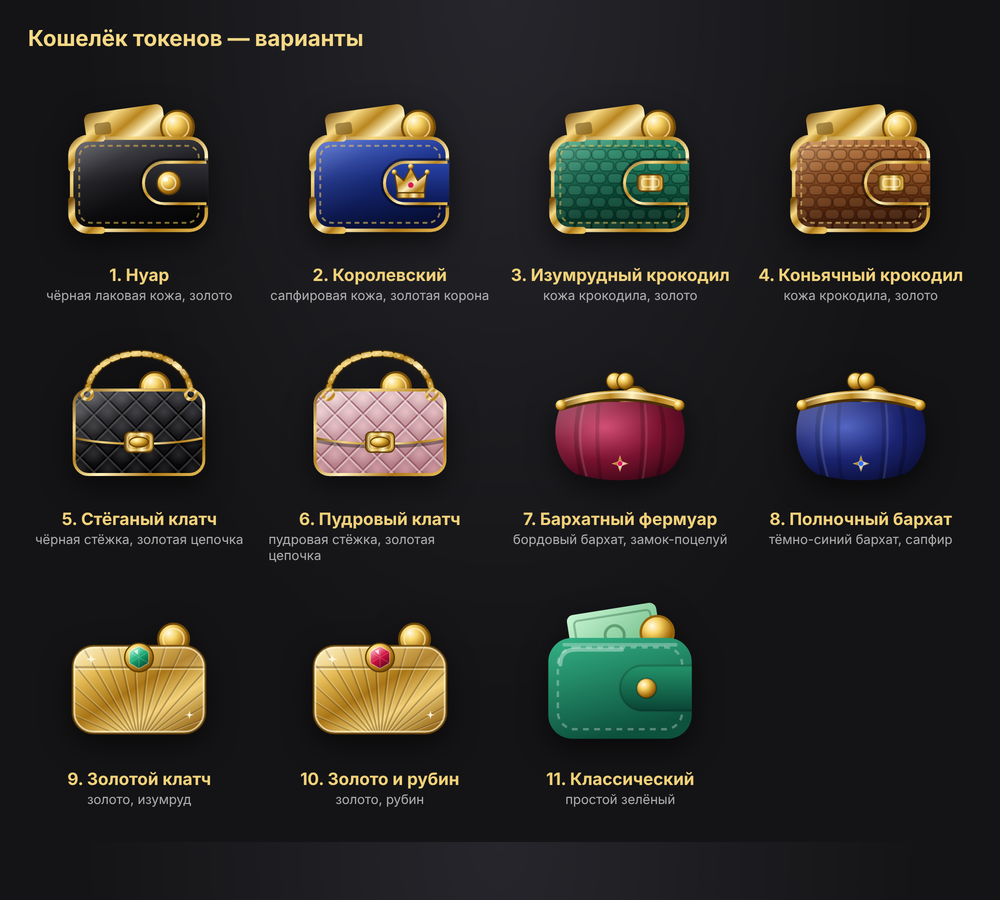
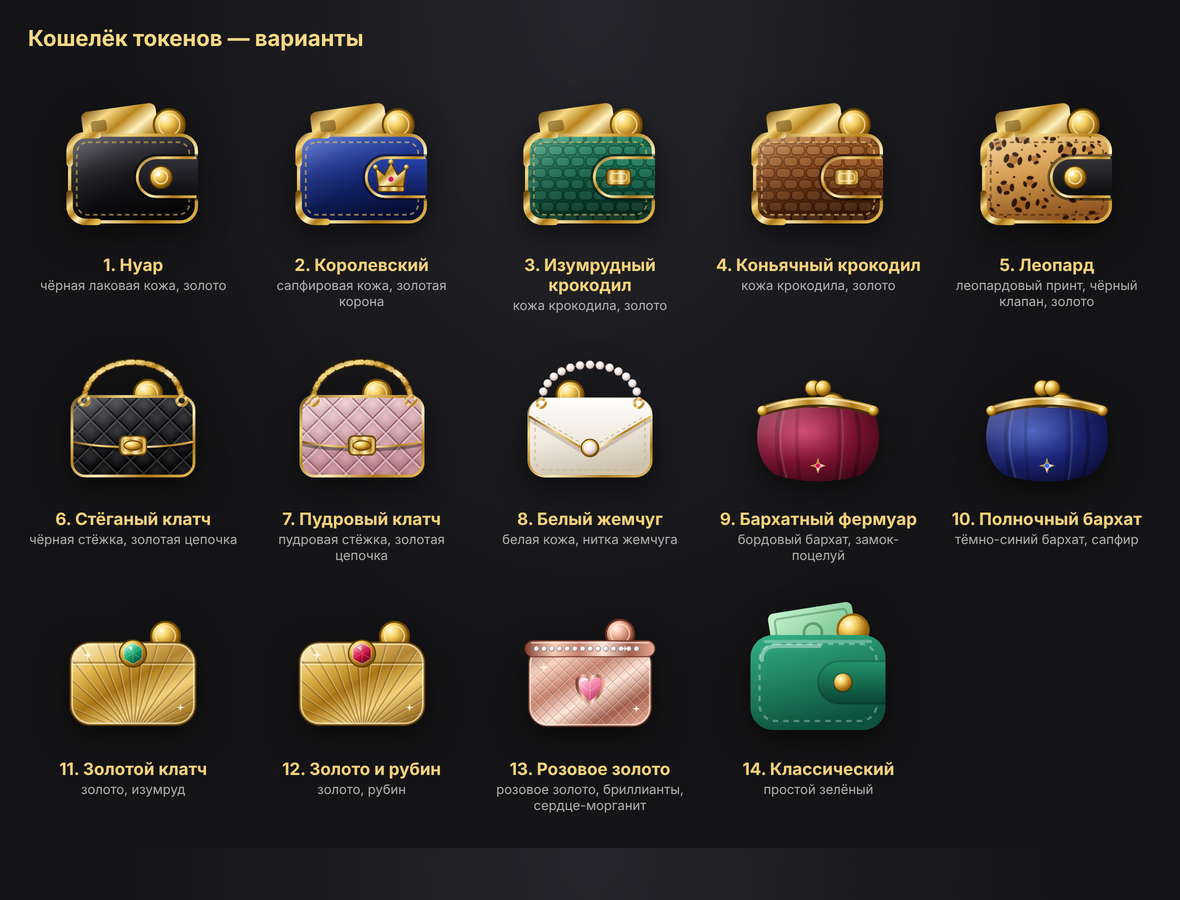
Add white pearl, rose gold and leopard wallet designs
- Leopard: bifold in leopard print (irregular rosettes) with a black
  patent flap and gold hardware.
- White pearl: ivory leather envelope clutch with a pearl strand handle
  and a pearl clasp.
- Rose gold: guilloche rose-gold clutch with a diamond pave frame and a
  morganite heart.
- All 14 designs are selectable in the settings; gallery and README
  updated.

diff --git a/src/wallets.js b/src/wallets.js
@@ -46,8 +46,8 @@ const glint = (id) => `
     </g>`;
 
 /** A gold coin with a rim */
-const coin = (id, cx, cy, r = 6) => `
-    <circle cx="${cx}" cy="${cy}" r="${r}" fill="url(#${id}-ball)" stroke="#6e4808" stroke-width="0.8"/>
+const coin = (id, cx, cy, r = 6, fill = 'ball', rim = '#6e4808') => `
+    <circle cx="${cx}" cy="${cy}" r="${r}" fill="url(#${id}-${fill})" stroke="${rim}" stroke-width="0.8"/>
     <circle cx="${cx}" cy="${cy}" r="${(r * 0.68).toFixed(2)}" fill="none" stroke="#fff3c4" stroke-opacity="0.65" stroke-width="0.6"/>`;
 
 /** Four-point sparkle */
@@ -66,7 +66,7 @@ const svg = (body) => `<svg class="tw-wallet-svg" viewBox="0 0 64 64" aria-hidde
  */
 function bifold(id, o) {
     const texture = o.texture ? `<rect x="6" y="19" width="52" height="36" rx="7" fill="url(#${id}-tex)"/>` : '';
-    const textureFlap = o.texture ? `<path d="M58 28 H41.5 a8.5 8.5 0 0 0 0 17 H58 Z" fill="url(#${id}-tex)"/>` : '';
+    const textureFlap = o.texture && o.flapTexture !== false ? `<path d="M58 28 H41.5 a8.5 8.5 0 0 0 0 17 H58 Z" fill="url(#${id}-tex)"/>` : '';
     return svg(`
     <defs>
         ${sharedDefs(id)}
@@ -130,6 +130,33 @@ const crocTexture = (dark, light) => (id) => {
     <pattern id="${id}-tex" width="12" height="9" patternUnits="userSpaceOnUse" patternTransform="translate(6 19)">
         ${tile(0.4, 0.4, 5.4, 3.7)}${tile(6.4, 0.4, 5.2, 3.7)}
         ${tile(-2.6, 4.9, 5.6, 3.7)}${tile(3.4, 4.9, 5.2, 3.7)}${tile(9.4, 4.9, 5.6, 3.7)}
+    </pattern>`;
+};
+
+/**
+ * Leopard rosettes: irregular broken dark rings around a warm centre, plus small spots.
+ * Each blob is [angle, length, thickness] relative to the rosette radius.
+ */
+const leopardTexture = (id) => {
+    const rosette = (cx, cy, r, rot, blobs) => {
+        let out = `<ellipse cx="${cx}" cy="${cy}" rx="${(r * 0.82).toFixed(2)}" ry="${(r * 0.62).toFixed(2)}" fill="#a3561a" fill-opacity="0.62" transform="rotate(${rot} ${cx} ${cy})"/>`;
+        for (const [a, len, thick] of blobs) {
+            const angle = ((a + rot) * Math.PI) / 180;
+            const x = (cx + Math.cos(angle) * r).toFixed(2);
+            const y = (cy + Math.sin(angle) * r * 0.82).toFixed(2);
+            out += `<ellipse cx="${x}" cy="${y}" rx="${(r * len).toFixed(2)}" ry="${(r * thick).toFixed(2)}" fill="#2a1406" transform="rotate(${(a + rot + 90).toFixed(1)} ${x} ${y})"/>`;
+        }
+        return out;
+    };
+    const spot = (cx, cy, rx, ry, rot) => `<ellipse cx="${cx}" cy="${cy}" rx="${rx}" ry="${ry}" fill="#2a1406" transform="rotate(${rot} ${cx} ${cy})"/>`;
+    return `
+    <pattern id="${id}-tex" width="22" height="18" patternUnits="userSpaceOnUse" patternTransform="translate(6 19) rotate(-10)">
+        ${rosette(5.5, 5, 2.6, 10, [[0, 0.62, 0.34], [78, 0.48, 0.3], [160, 0.66, 0.36], [252, 0.5, 0.32]])}
+        ${rosette(15.6, 4.6, 2.2, 50, [[0, 0.72, 0.36], [118, 0.58, 0.32], [228, 0.64, 0.35]])}
+        ${rosette(10.4, 12.6, 2.8, 120, [[0, 0.56, 0.33], [88, 0.66, 0.36], [178, 0.46, 0.3], [262, 0.6, 0.34]])}
+        ${rosette(19, 13.6, 2, 200, [[0, 0.7, 0.36], [125, 0.6, 0.33], [240, 0.55, 0.32]])}
+        ${spot(1.5, 11.4, 0.7, 0.45, 30)}${spot(9.6, 1.4, 0.55, 0.38, -20)}${spot(20.3, 8.6, 0.6, 0.4, 60)}
+        ${spot(3.4, 16.4, 0.5, 0.35, 10)}${spot(14.6, 9.2, 0.42, 0.3, -40)}
     </pattern>`;
 };
 
@@ -266,6 +293,127 @@ function minaudiere(id, o) {
     ${glint(id)}`);
 }
 
+/* -------------------------------------------- white leather with pearls */
+
+const pearlDefs = (id) => `
+    <radialGradient id="${id}-pearl" cx="0.36" cy="0.3" r="0.78">
+        <stop offset="0" stop-color="#ffffff"/>
+        <stop offset="0.3" stop-color="#fbf6f2"/>
+        <stop offset="0.62" stop-color="#ecdcd8"/>
+        <stop offset="0.86" stop-color="#c8b8b4"/>
+        <stop offset="1" stop-color="#a39490"/>
+    </radialGradient>`;
+
+function pearlClutch(id) {
+    // Pearls along a cubic Bézier: the strand handle
+    const p0 = [12.5, 24.5];
+    const p1 = [14, 5];
+    const p2 = [50, 5];
+    const p3 = [51.5, 24.5];
+    const pearls = [];
+    for (let i = 0; i <= 14; i++) {
+        const t = i / 14;
+        const k = 1 - t;
+        const x = k ** 3 * p0[0] + 3 * k * k * t * p1[0] + 3 * k * t * t * p2[0] + t ** 3 * p3[0];
+        const y = k ** 3 * p0[1] + 3 * k * k * t * p1[1] + 3 * k * t * t * p2[1] + t ** 3 * p3[1];
+        pearls.push(`<circle cx="${x.toFixed(2)}" cy="${y.toFixed(2)}" r="1.65" fill="url(#${id}-pearl)" stroke="#9a8a86" stroke-opacity="0.45" stroke-width="0.25"/>`);
+    }
+    const flap = 'M7.6 30 V29.5 a6.4 6.4 0 0 1 6.4 -6.4 H50 a6.4 6.4 0 0 1 6.4 6.4 V30.5 L36.2 42.6 Q32 45 27.8 42.6 L7.6 30.5 Z';
+    const flapEdge = 'M7.6 30.5 L27.8 42.6 Q32 45 36.2 42.6 L56.4 30.5';
+    return svg(`
+    <defs>
+        ${sharedDefs(id)}
+        ${pearlDefs(id)}
+        <linearGradient id="${id}-body" x1="0" y1="0" x2="0.3" y2="1">
+            <stop offset="0" stop-color="#fffefb"/>
+            <stop offset="0.55" stop-color="#f0e9de"/>
+            <stop offset="1" stop-color="#cfc3b0"/>
+        </linearGradient>
+        <linearGradient id="${id}-flap" x1="0" y1="0" x2="0" y2="1">
+            <stop offset="0" stop-color="#ffffff"/>
+            <stop offset="1" stop-color="#ece4d7"/>
+        </linearGradient>
+        <clipPath id="${id}-clip"><rect x="7" y="23" width="50" height="32" rx="7"/></clipPath>
+    </defs>
+    <g class="tw-peek">${coin(id, 24, 21.8, 5.4)}</g>
+    <path d="M12.5 24.5 C 14 5, 50 5, 51.5 24.5" fill="none" stroke="#b9a99f" stroke-opacity="0.5" stroke-width="0.4"/>
+    ${pearls.join('')}
+    <rect x="7" y="23" width="50" height="32" rx="7" fill="url(#${id}-body)"/>
+    <rect x="7" y="23" width="50" height="32" rx="7" fill="url(#${id}-sheen)"/>
+    <rect x="7.5" y="23.5" width="49" height="31" rx="6.5" fill="none" stroke="url(#${id}-gold)" stroke-width="0.9"/>
+    <rect x="10" y="26" width="44" height="26" rx="4.5" fill="none" stroke="#c9b48a" stroke-opacity="0.7" stroke-width="0.55" stroke-dasharray="1.6 1.3"/>
+    <path d="${flapEdge}" fill="none" stroke="#5a4a36" stroke-opacity="0.22" stroke-width="2" transform="translate(0 1)"/>
+    <path d="${flap}" fill="url(#${id}-flap)"/>
+    <path d="${flapEdge}" fill="none" stroke="url(#${id}-goldh)" stroke-width="0.8"/>
+    <path d="M10.5 30.8 L28.6 41.3 Q32 43.2 35.4 41.3 L53.5 30.8" fill="none" stroke="#c9b48a" stroke-opacity="0.75" stroke-width="0.5" stroke-dasharray="1.4 1.2"/>
+    <circle cx="12.5" cy="25.3" r="1.7" fill="none" stroke="url(#${id}-gold)" stroke-width="1.1"/>
+    <circle cx="51.5" cy="25.3" r="1.7" fill="none" stroke="url(#${id}-gold)" stroke-width="1.1"/>
+    <circle cx="32" cy="43.2" r="3.5" fill="url(#${id}-ball)" stroke="#5e3c06" stroke-width="0.4"/>
+    <circle cx="32" cy="43.2" r="2.7" fill="url(#${id}-pearl)"/>
+    <circle cx="31" cy="42.2" r="0.7" fill="#fff" opacity="0.9"/>
+    ${glint(id)}`);
+}
+
+/* ------------------------------------------------------ rose gold clutch */
+
+function roseGold(id) {
+    const rose = `
+        <stop offset="0" stop-color="#7d3f30"/>
+        <stop offset="0.22" stop-color="#f8cdb8"/>
+        <stop offset="0.42" stop-color="#c4806a"/>
+        <stop offset="0.6" stop-color="#ffe6da"/>
+        <stop offset="0.8" stop-color="#a35f4c"/>
+        <stop offset="1" stop-color="#e9ad95"/>`;
+    const diamonds = [];
+    for (let x = 10.6; x <= 53.5; x += 3.08) {
+        diamonds.push(`<circle cx="${x.toFixed(2)}" cy="23.5" r="1.08" fill="url(#${id}-diamond)" stroke="#7d3f30" stroke-opacity="0.5" stroke-width="0.25"/>`);
+    }
+    const heart = 'M32 45.2 C 25.2 40.4, 25.9 34.3, 29.3 34.3 C 30.8 34.3, 31.6 35.2, 32 36.1 C 32.4 35.2, 33.2 34.3, 34.7 34.3 C 38.1 34.3, 38.8 40.4, 32 45.2 Z';
+    return svg(`
+    <defs>
+        ${sharedDefs(id)}
+        <linearGradient id="${id}-rose" x1="0" y1="0" x2="0.9" y2="1">${rose}</linearGradient>
+        <linearGradient id="${id}-roseh" x1="0" y1="0" x2="1" y2="0">${rose}</linearGradient>
+        <radialGradient id="${id}-rball" cx="0.35" cy="0.3" r="0.8">
+            <stop offset="0" stop-color="#fff4ee"/>
+            <stop offset="0.32" stop-color="#f3b9a2"/>
+            <stop offset="0.74" stop-color="#a65a46"/>
+            <stop offset="1" stop-color="#5e2a1d"/>
+        </radialGradient>
+        <radialGradient id="${id}-diamond" cx="0.35" cy="0.3" r="0.8">
+            <stop offset="0" stop-color="#ffffff"/>
+            <stop offset="0.5" stop-color="#e6eef7"/>
+            <stop offset="1" stop-color="#8d9bb0"/>
+        </radialGradient>
+        <linearGradient id="${id}-morganite" x1="0.2" y1="0" x2="0.8" y2="1">
+            <stop offset="0" stop-color="#ffe0ea"/>
+            <stop offset="0.5" stop-color="#f27aa3"/>
+            <stop offset="1" stop-color="#9c1f4f"/>
+        </linearGradient>
+        <pattern id="${id}-guilloche" width="3.4" height="3.4" patternUnits="userSpaceOnUse" patternTransform="rotate(45 32 38)">
+            <path d="M0 0 H3.4 M0 0 V3.4" stroke="#6b3022" stroke-opacity="0.32" stroke-width="0.45"/>
+            <path d="M0 0.55 H3.4 M0.55 0 V3.4" stroke="#fff" stroke-opacity="0.3" stroke-width="0.3"/>
+        </pattern>
+        <clipPath id="${id}-clip"><rect x="7.5" y="20.5" width="49" height="34" rx="7.5"/></clipPath>
+    </defs>
+    <g class="tw-peek">${coin(id, 44, 17.5, 5.6, 'rball', '#6b3022')}</g>
+    <rect x="7.5" y="22" width="49" height="32.5" rx="7.5" fill="url(#${id}-rose)"/>
+    <rect x="7.5" y="22" width="49" height="32.5" rx="7.5" fill="url(#${id}-guilloche)"/>
+    <rect x="7.5" y="22" width="49" height="32.5" rx="7.5" fill="url(#${id}-sheen)"/>
+    <rect x="8.1" y="22.6" width="47.8" height="31.3" rx="6.9" fill="none" stroke="#fff1ea" stroke-opacity="0.6" stroke-width="0.7"/>
+    <rect x="7.5" y="22" width="49" height="32.5" rx="7.5" fill="none" stroke="#6b3022" stroke-opacity="0.75" stroke-width="0.6"/>
+    <rect x="6" y="20.3" width="52" height="6.4" rx="3.2" fill="url(#${id}-roseh)" stroke="#6b3022" stroke-opacity="0.8" stroke-width="0.5"/>
+    <path d="M8.6 21.1 H55.4" stroke="#fff4ee" stroke-opacity="0.7" stroke-width="0.5" stroke-linecap="round"/>
+    ${diamonds.join('')}
+    <path d="${heart}" fill="url(#${id}-morganite)" stroke="url(#${id}-roseh)" stroke-width="1.3" stroke-linejoin="round"/>
+    <path d="M32 36.6 L32 44 M28 37.6 L32 40.6 L36 37.6" fill="none" stroke="#fff" stroke-opacity="0.28" stroke-width="0.35"/>
+    <path d="M28.4 36.6 Q 29.4 35.4 30.8 35.8" fill="none" stroke="#fff" stroke-opacity="0.85" stroke-width="0.7" stroke-linecap="round"/>
+    ${sparkle(13.5, 31, 0.5, 0.4)}
+    ${sparkle(50.5, 47.5, 0.45, 1.6)}
+    ${sparkle(46, 23.4, 0.38, 2.2)}
+    ${glint(id)}`);
+}
+
 /* ----------------------------------------------------- classic (simple) */
 
 function classic(id) {
@@ -364,6 +512,21 @@ export const WALLETS = [
         }),
     },
     {
+        id: 'leopard',
+        name: { ru: 'Леопард', en: 'Leopard' },
+        hint: { ru: 'леопардовый принт, чёрный клапан, золото', en: 'leopard print, black flap, gold' },
+        glow: 'rgba(255, 190, 100, 0.55)',
+        render: id => bifold(id, {
+            body: ['#f3c983', '#d39a4c', '#8f5622'],
+            flap: ['#36363c', '#0a0a0b'],
+            stitch: 'rgba(60, 30, 8, 0.55)',
+            texture: true,
+            flapTexture: false,
+            textureDefs: leopardTexture,
+            emblem: roundClasp,
+        }),
+    },
+    {
         id: 'quilted-noir',
         name: { ru: 'Стёганый клатч', en: 'Quilted clutch' },
         hint: { ru: 'чёрная стёжка, золотая цепочка', en: 'black quilting, gold chain' },
@@ -376,6 +539,13 @@ export const WALLETS = [
         hint: { ru: 'пудровая стёжка, золотая цепочка', en: 'blush quilting, gold chain' },
         glow: 'rgba(255, 170, 190, 0.6)',
         render: id => quilted(id, { body: ['#f6d3d6', '#c88b95'], seam: '#9b5764', seamLight: 0.45 }),
+    },
+    {
+        id: 'pearl',
+        name: { ru: 'Белый жемчуг', en: 'White pearl' },
+        hint: { ru: 'белая кожа, нитка жемчуга', en: 'white leather, pearl strand' },
+        glow: 'rgba(255, 238, 215, 0.65)',
+        render: id => pearlClutch(id),
     },
     {
         id: 'velvet-bordeaux',
@@ -404,6 +574,13 @@ export const WALLETS = [
         hint: { ru: 'золото, рубин', en: 'gold, ruby' },
         glow: 'rgba(255, 190, 110, 0.65)',
         render: id => minaudiere(id, { gem: ['#ffc2d0', '#d0103f', '#52031a'] }),
+    },
+    {
+        id: 'rose-gold',
+        name: { ru: 'Розовое золото', en: 'Rose gold' },
+        hint: { ru: 'розовое золото, бриллианты, сердце-морганит', en: 'rose gold, diamonds, morganite heart' },
+        glow: 'rgba(255, 170, 160, 0.6)',
+        render: id => roseGold(id),
     },
     {
         id: 'classic',

diff --git a/README.md b/README.md
@@ -68,11 +68,11 @@ git clone -b claude/silly-tavern-token-costs-tdqcx8 https://github.com/Diana-Fox
 - **Монетка за вход**:
   - «Сразу при отправке» — как в задумке: монетка вылетает в момент отправки. Но OpenRouter присылает точный счёт только в самом конце ответа, поэтому сумма на этой монетке — оценка (`≈`), посчитанная токенайзером SillyTavern по ценам модели. Когда придёт точный счёт, на золотой монетке будет пометка «вход уточнён: …», а в панели и у сообщения сразу будут точные цифры.
   - «Вместе с ответом» — обе монетки вылетают после ответа, сразу с точными суммами.
-- **Внешний вид**: 11 стилей кошелька и три размера. Стиль выбирается плитками, и при выборе сразу вылетают пробные монетки. Можно включить блик и искорки на кошельке, а также отдельно включать или выключать сам кошелёк, сумму за чат, стоимость у сообщений и название модели на монетке. Кнопка «Проверить анимацию» запускает пробные монетки.
+- **Внешний вид**: 14 стилей кошелька и три размера. Стиль выбирается плитками, и при выборе сразу вылетают пробные монетки. Можно включить блик и искорки на кошельке, а также отдельно включать или выключать сам кошелёк, сумму за чат, стоимость у сообщений и название модели на монетке. Кнопка «Проверить анимацию» запускает пробные монетки.
 
   ![Стили кошелька](docs/wallets.png)
 
-  Нуар (по умолчанию), Королевский, Изумрудный и Коньячный крокодил, Стёганый и Пудровый клатч с золотой цепочкой, Бархатный фермуар и Полночный бархат (замок-поцелуй раскрывается, когда вылетает монетка), Золотой клатч с изумрудом или рубином, Классический.
+  Нуар (по умолчанию), Королевский, Изумрудный и Коньячный крокодил, Леопард, Стёганый и Пудровый клатч с золотой цепочкой, Белый жемчуг, Бархатный фермуар и Полночный бархат (замок-поцелуй раскрывается, когда вылетает монетка), Золотой клатч с изумрудом или рубином, Розовое золото с бриллиантами и сердцем-морганитом, Классический.
 - **Учитывать фоновые запросы**: саммари, генерация промптов для картинок и другие запросы расширений. Они тоже стоят денег, такие монетки помечены «фон».
 - **Свои цены**: для провайдеров, которые не присылают стоимость. По строке на модель, цены в долларах за 1 млн токенов:
 
